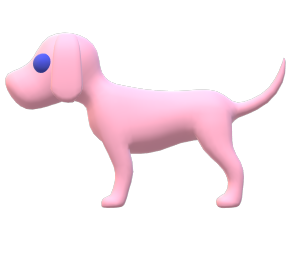
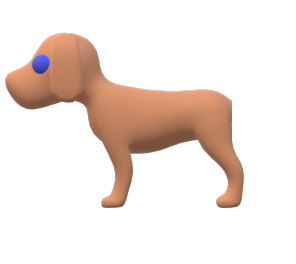
v.0.0.16 make dog trait tailless instead of eye colour
v.0.0.16 make dog trait tailless instead of eye colour

Changed region(s): [[0.0, 0.1212, 0.973, 0.7879]]

diff --git a/common/templates/common/base.html b/common/templates/common/base.html
@@ -51,7 +51,7 @@
         <div class="row">
           <div class="col-3">
             <img class="mb-2" src="/docs/4.2/assets/brand/bootstrap-solid.svg" alt="" width="24" height="24">
-            <small class="d-block mb-3 text-muted">&copy; 2020 Russell B Myers v0.0.15</small>
+            <small class="d-block mb-3 text-muted">&copy; 2020 Russell B Myers v0.0.16</small>
           </div>
           <div class="col-3">
             <h5>Features</h5>

diff --git a/common/templates/common/about.html b/common/templates/common/about.html
@@ -17,7 +17,7 @@ About
     <header class="jumbotron">
       <h1 class="display-4">About</h1>
     </header>
-    <small class="d-block mb-3 text-muted">Genetics & Evolution Web v0.0.15   &copy; 2020 Russell B Myers </small>
+    <small class="d-block mb-3 text-muted">Genetics & Evolution Web v0.0.16   &copy; 2020 Russell B Myers </small>
     </div>
 </div>
 

diff --git a/common/views.py b/common/views.py
@@ -462,7 +462,7 @@ def create_children(org_het, org_hom_rec, num_samples=1000):
 
 def get_phen_descriptions(genome_name):
     if genome_name == 'dog':
-        phen_descriptions = ['aa - green eyes (AA or Aa = blue eyes)', 'bb - pink coat (BB or Bb = brown coat)',
+        phen_descriptions = ['aa - pink coat (AA or Aa = brown coat)', 'bb - tailless (BB or Bb = tail)',
                              'cc - spotted (CC or Cc = unspotted)']
     elif genome_name == 'fish':
         phen_descriptions = ['aa - grey body (AA or Aa = gold body)', 'bb - small eyes (BB or Bb = big eyes)',
